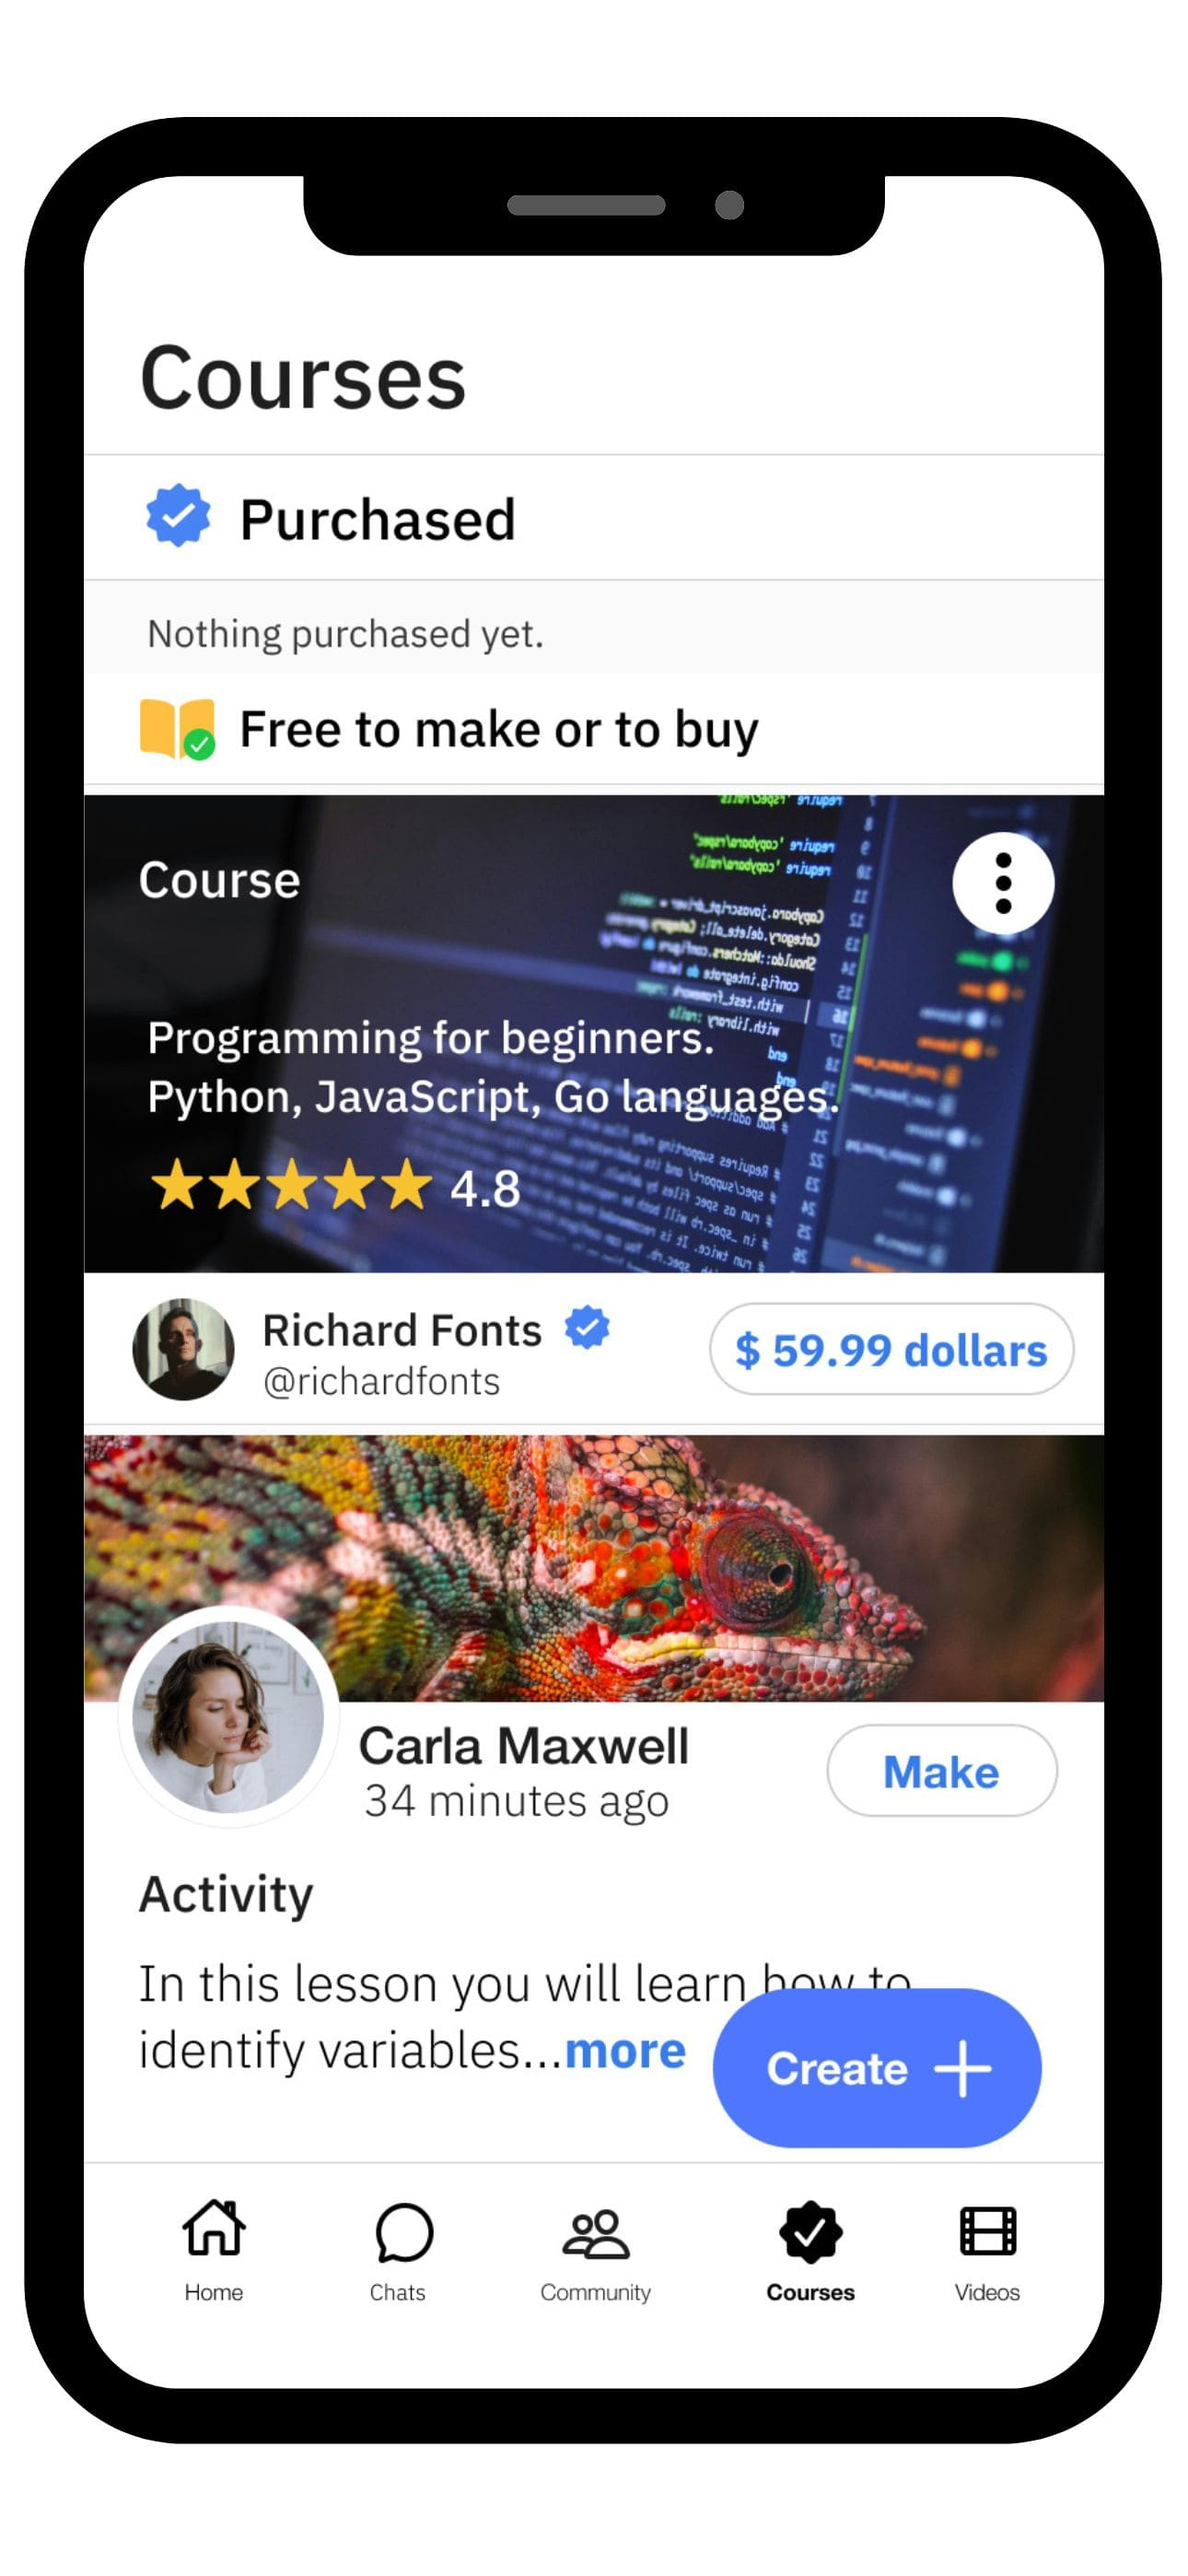
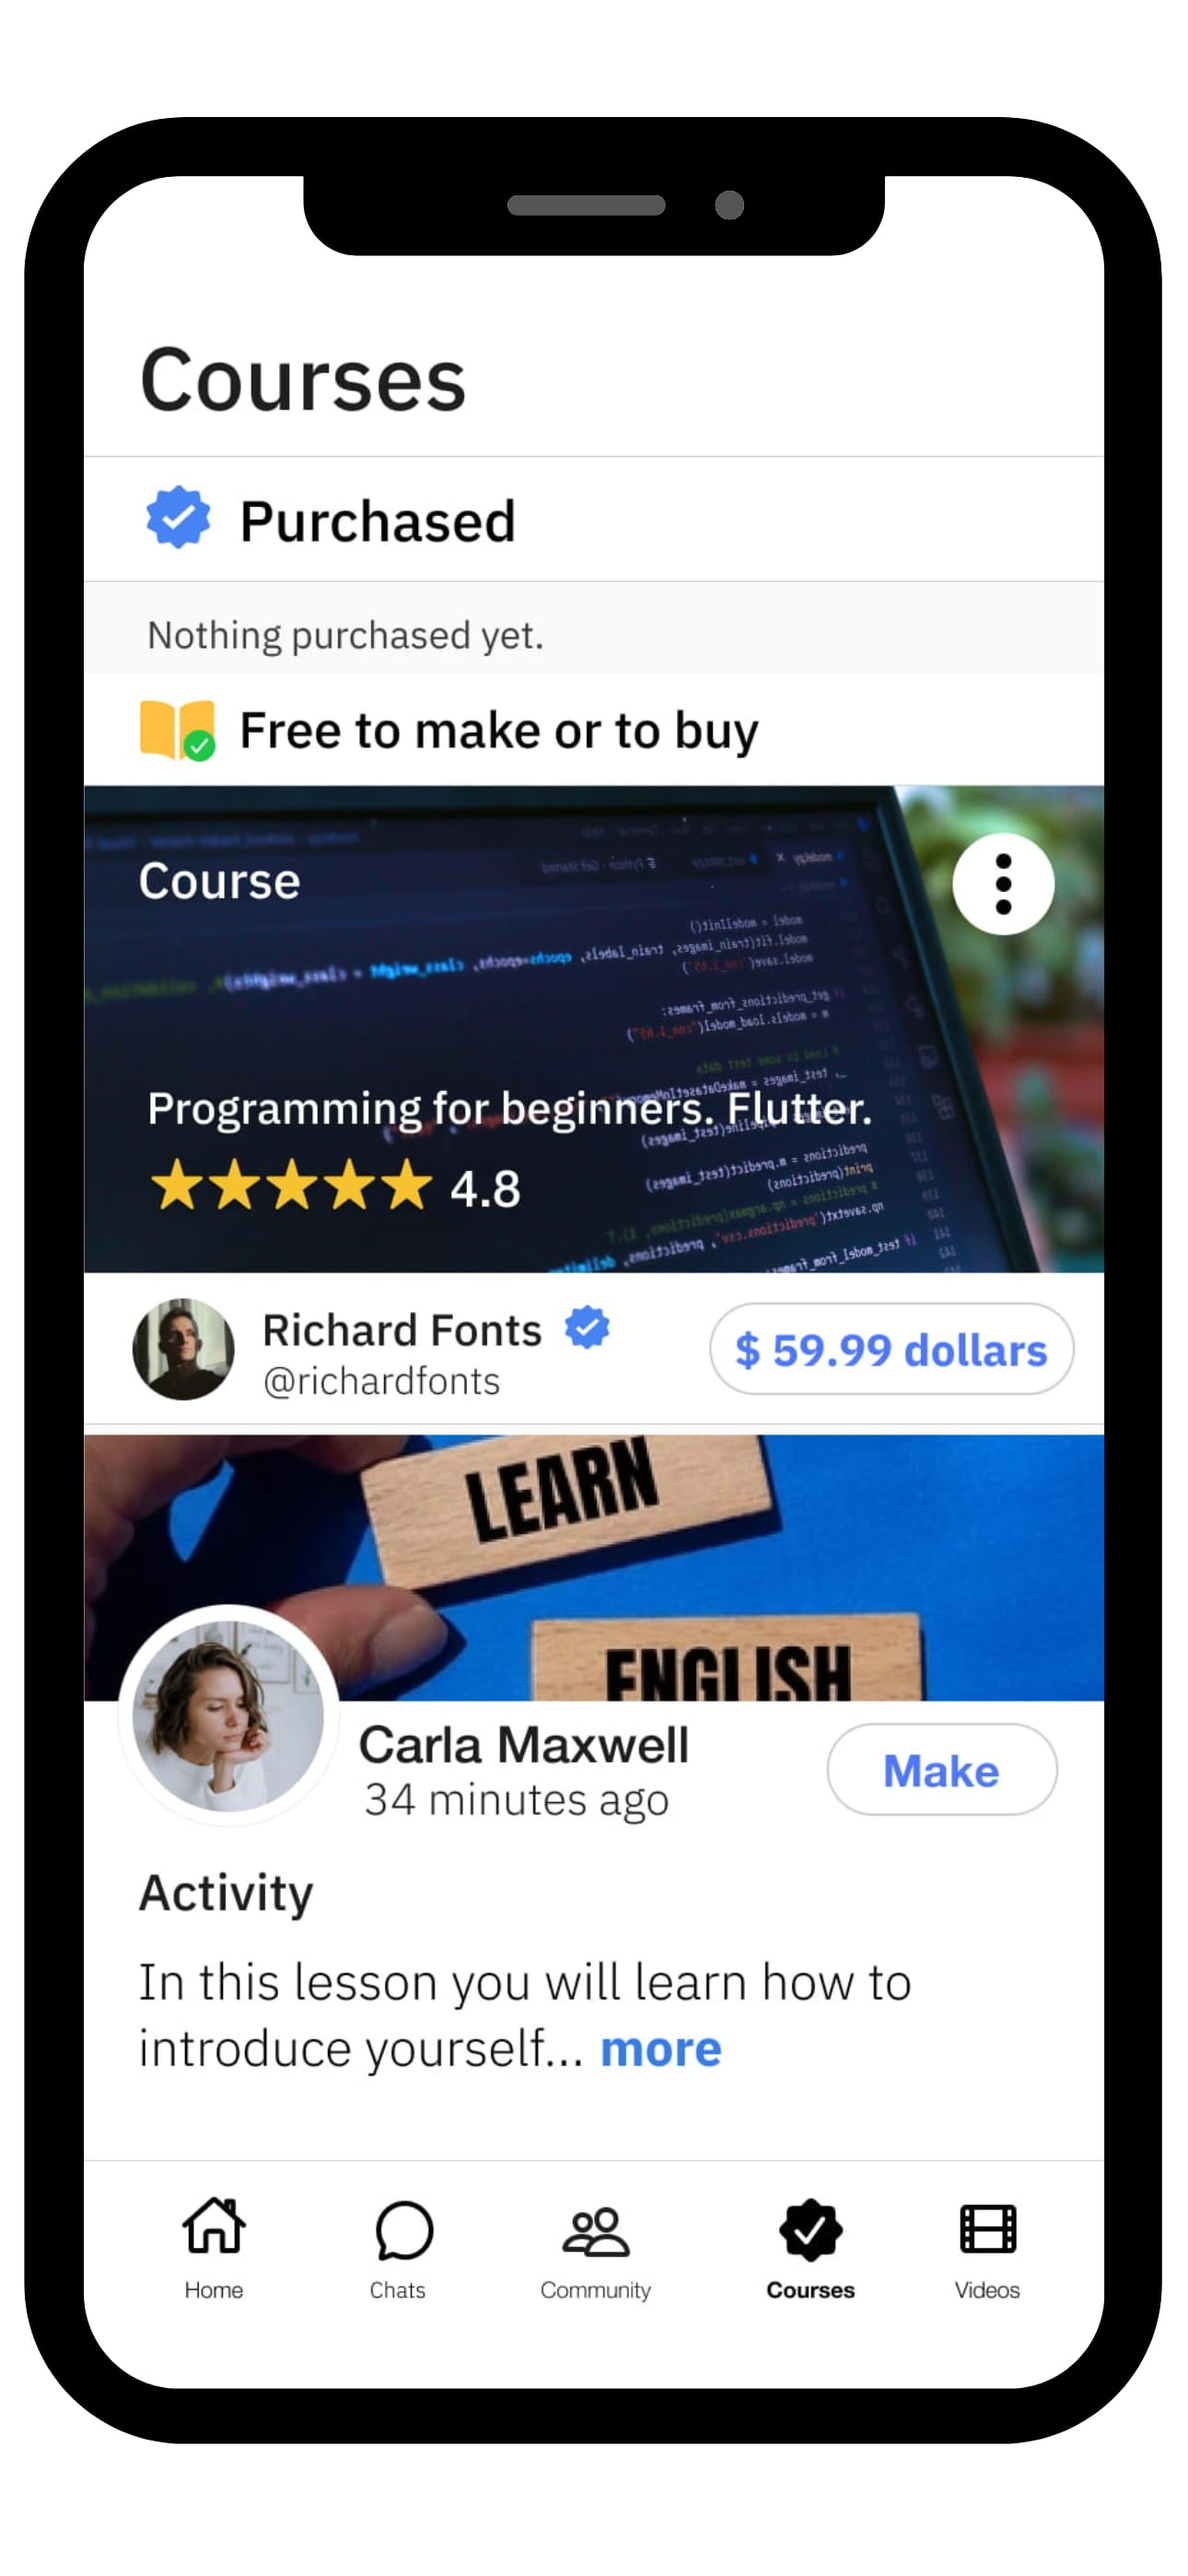
Add files via upload

diff --git a/flutter_service_worker.js b/flutter_service_worker.js
@@ -3,7 +3,7 @@ const MANIFEST = 'flutter-app-manifest';
 const TEMP = 'flutter-temp-cache';
 const CACHE_NAME = 'flutter-app-cache';
 
-const RESOURCES = {"flutter_bootstrap.js": "061260a37a709ae943032b2f6f084cf7",
+const RESOURCES = {"flutter_bootstrap.js": "cbd9539addeb6f8ca923cdcccd68bee2",
 "version.json": "0d0e1e4d2992391e17bcf84e8c6e3122",
 "splash/img/light-2x.png": "d29eb70da62a635a8b9bfe413d5992f6",
 "splash/img/dark-4x.png": "1449ff08b75a911d2592812abb75a0e2",
@@ -47,7 +47,7 @@ const RESOURCES = {"flutter_bootstrap.js": "061260a37a709ae943032b2f6f084cf7",
 "assets/assets/photos/image12.jpg": "f9197167e6dfd16cf1ddc95a8bfcabae",
 "assets/assets/photos/image11.jpg": "22227186ed217ddd77ce60b293a6baaa",
 "assets/assets/photos/image10.jpg": "1c968c611d10a195926d7e4e6826d92c",
-"assets/assets/photos/image7.jpg": "368c5a856ab6dea4d84e327cf7f8ea0f",
+"assets/assets/photos/image7.jpg": "9d6ea469db214c55c2561c89a44996e1",
 "assets/assets/photos/image6.jpg": "359146e53678aea626b8830fdb192abf",
 "assets/assets/photos/image4.jpg": "1a374669ceb818d9424e528e275dead6",
 "assets/assets/photos/image5.jpg": "bad885c3a118de3b4881cd33e754bc64",

diff --git a/flutter_bootstrap.js b/flutter_bootstrap.js
@@ -38,6 +38,6 @@ _flutter.buildConfig = {"engineRevision":"78fc3012e45889657f72359b005af7beac47ba
 
 _flutter.loader.load({
   serviceWorkerSettings: {
-    serviceWorkerVersion: "2943788627"
+    serviceWorkerVersion: "3546765559"
   }
 });
